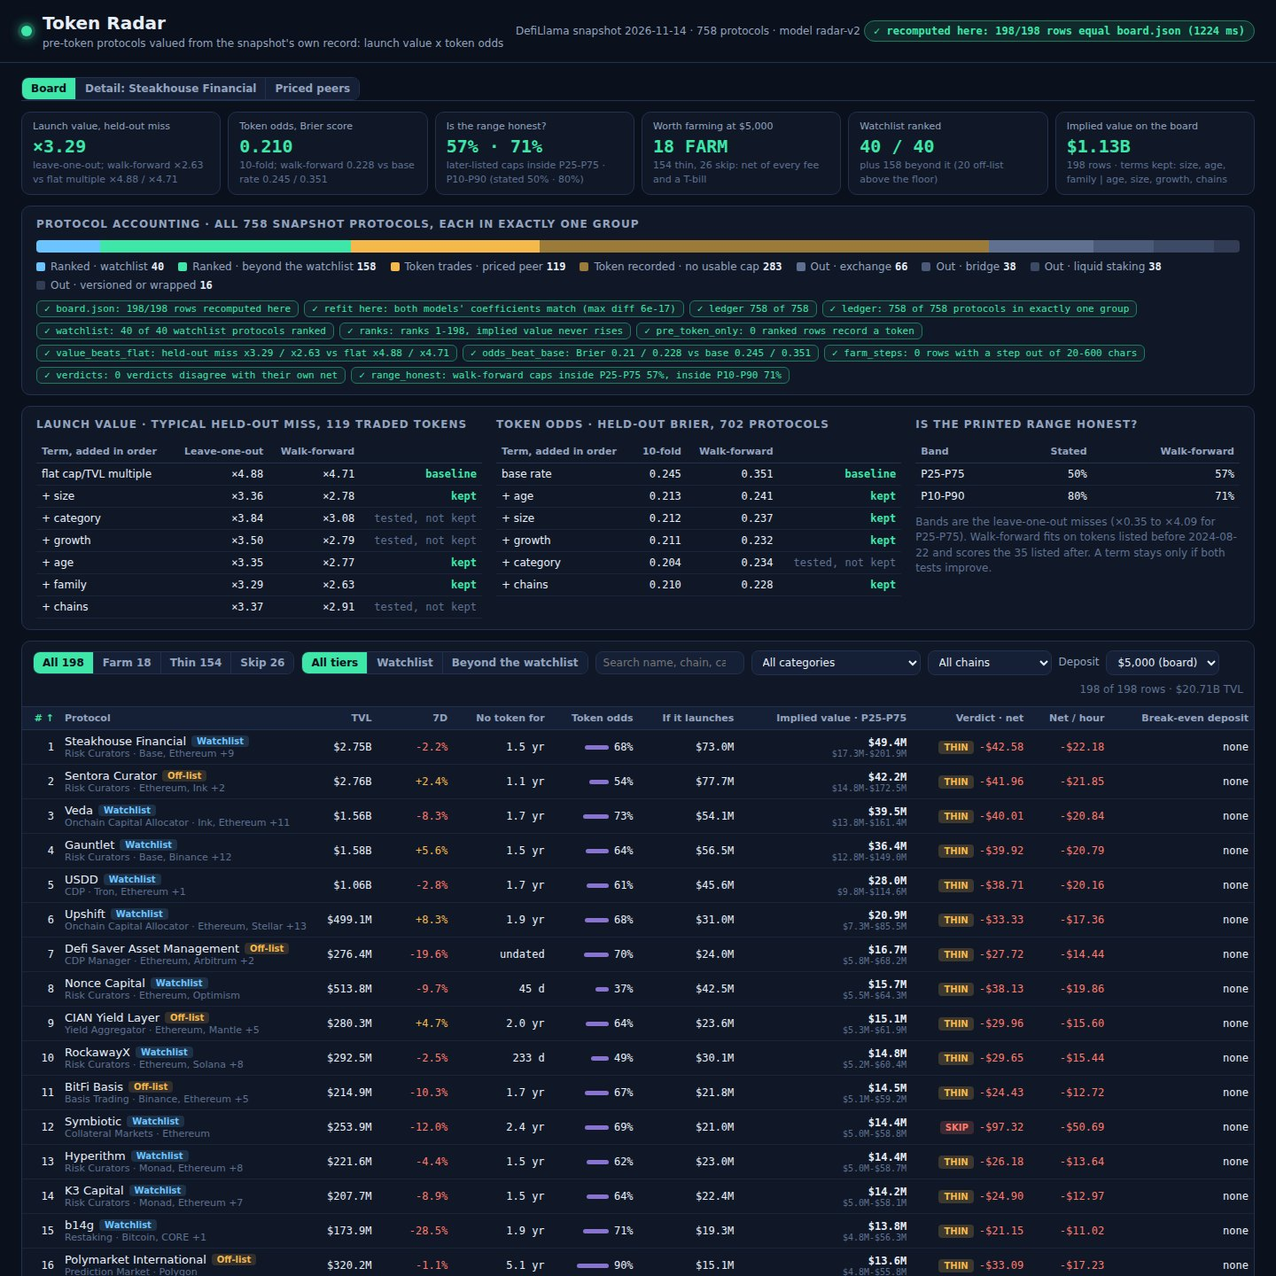
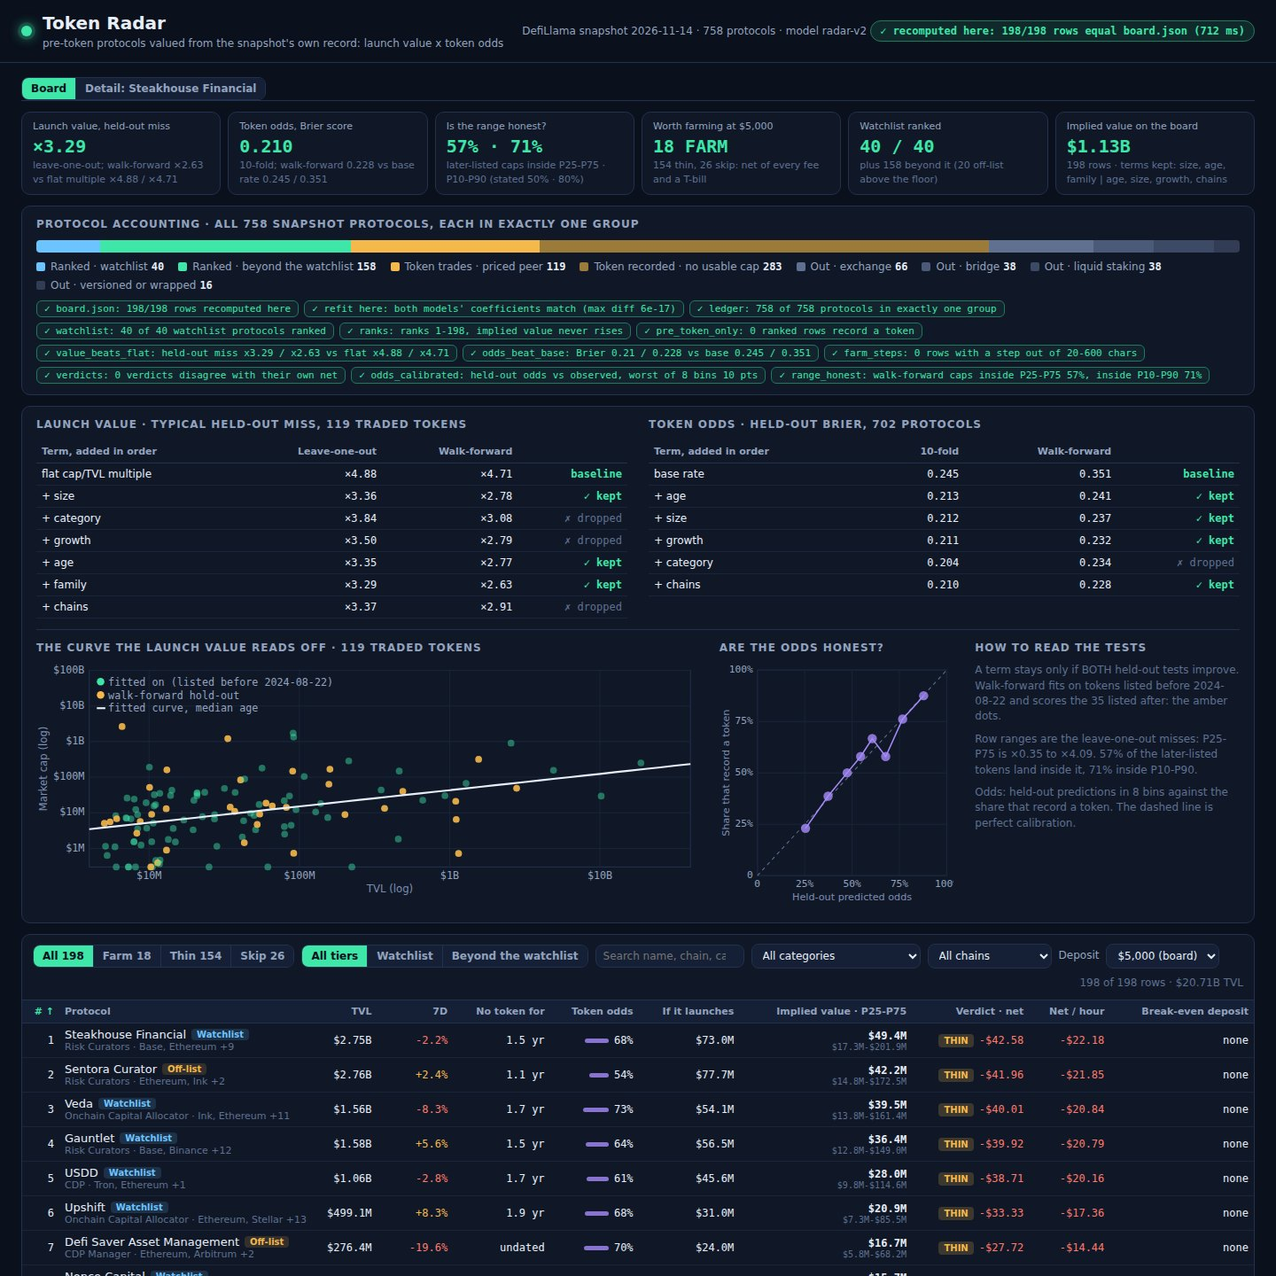
Token Radar v3: fitted-curve scatter with walk-forward hold-out, odds calibration chart and self-test, farm plan table with totals, lighter screenshots

diff --git a/dashboard/app-views.js b/dashboard/app-views.js
@@ -1,6 +1,5 @@
-// Token Radar page, part 2: the views. Board (sortable, filterable, deposit-aware verdicts), a detail
-// view per protocol (how its figure is made, nearest priced peers, farm verdict grid, the plan) and the
-// priced peers the launch value is fitted on.
+// Token Radar page, part 2: the board (sortable, filterable, deposit-aware verdicts) and a detail view
+// per protocol (how its figure is made, its place on the fitted curve, peers, verdict grid, the plan).
 (function () {
   'use strict';
   var UI = window.UI, D = UI.D, SNAP = UI.SNAP, S = UI.state, el = UI.el, add = UI.add;
@@ -10,6 +9,7 @@
   var CATS = []; TRADED.forEach(function (f) { if (CATS.indexOf(f.cat) < 0) CATS.push(f.cat); }); CATS.sort();
   var VD = RM.valueDesign(M.value_terms, CATS);
   function launchOf(f) { return Math.exp(ST.dot(M.value_w, VD.row(f)) + VD.offset(f)); }
+  UI.TRADED = TRADED; UI.launchOf = launchOf;
 
   function seg(opts, cur, on) {
     var s = el('div', 'seg');
@@ -107,7 +107,7 @@
     });
     lines.push(['= Value if a token launches', 'held-out miss ' + UI.x(M.value_steps.filter(function (s) { return s.kept; }).pop().a), UI.usd(launchOf(f))]);
     var ow = M.odds_w, logit = ow[0], oparts = ['intercept ' + ow[0].toFixed(2)];
-    M.odds_terms.forEach(function (t, k) { var v = t === 'age' ? f.y : t === 'size' ? f.z : t === 'growth' ? f.g : t === 'chains' ? f.ch : 0; logit += ow[k + 1] * v; oparts.push(t + ' ' + (ow[k + 1] >= 0 ? '+' : '') + (ow[k + 1] * v).toFixed(2)); });
+    M.odds_terms.forEach(function (t, k) { var v = t === 'age' ? f.y : t === 'size' ? f.z : t === 'growth' ? f.g : t === 'chains' ? f.ch : 0; logit += ow[k + 1] * v; oparts.push(t + ' ' + (ow[k + 1] * v >= 0 ? '+' : '') + (ow[k + 1] * v).toFixed(2)); });
     lines.push(['× Token odds', 'logit ' + oparts.join(', ') + ' = ' + logit.toFixed(2) + ' (base rate ' + Math.round(M.odds_base * 100) + '%)', Math.round(ST.sigmoid(logit) * 100) + '%']);
     lines.push(['= Implied value', 'the board ranks on this', UI.usd(r.implied_value_usd)]);
     var t = UI.table(['Step', 'From the snapshot', ''], lines.map(function (l) { var c = el('div'); add(c, l[0], el('small', '', l[1])); return [c, '', l[2]]; }), [0]);
@@ -115,7 +115,8 @@
     var check = launchOf(f) * ST.sigmoid(logit), okc = Math.max(1, Math.round(check)) === r.implied_value_usd;
     add(how, el('h2', '', 'How the figure is made'), t, el('div', okc ? 'note pos' : 'note neg', okc ? '✓ these factors, multiplied here, give board.json\'s ' + UI.usd(r.implied_value_usd) : '✗ the factors do not reproduce board.json'));
     var peers = TRADED.slice().sort(function (a, b) { return (Math.abs(a.z - f.z) + (a.cat === f.cat ? 0 : 0.7)) - (Math.abs(b.z - f.z) + (b.cat === f.cat ? 0 : 0.7)) || (a.slug < b.slug ? -1 : 1); }).slice(0, 6);
-    add(how, el('h2', '', 'Nearest priced peers · their tokens trade'), UI.table(['Token', 'Category', 'TVL', 'Market cap', 'Cap/TVL', 'Model'], peers.map(function (p) { return [p.p.name + (p.p.symbol ? ' · ' + p.p.symbol : ''), p.cat, UI.usd(p.p.tvl_usd), UI.usd(p.p.mcap_usd), UI.x(p.p.mcap_usd / p.p.tvl_usd), UI.usd(launchOf(p))]; }), [0, 1]));
+    add(how, el('h2', '', 'Where ' + r.name + ' sits on the fitted curve'), UI.scatter(r));
+    add(how, el('h2', '', 'Nearest priced peers · their tokens trade'), UI.table(['Token', 'Category', 'TVL', 'Market cap', 'Cap/TVL', 'Model'], peers.slice(0, 4).map(function (p) { return [p.p.name + (p.p.symbol ? ' · ' + p.p.symbol : ''), p.cat, UI.usd(p.p.tvl_usd), UI.usd(p.p.mcap_usd), UI.x(p.p.mcap_usd / p.p.tvl_usd), UI.usd(launchOf(p))]; }), [0, 1]));
 
     var farm = el('div', 'panel');
     var vt = el('div'); add(vt, el('span', 'v ' + e.verdict, e.verdict), ' ' + UI.usd(e.deposit) + ' for ' + M.farm.weeks + ' weeks: modelled drop ' + UI.usd(e.drop) + ' less ' + UI.usd(e.fees) + ' fees (' + e.txs + ' transactions) and ' + UI.usd(e.tbill) + ' a T-bill would pay = ', el('b', e.net >= 0 ? 'pos' : 'neg', UI.usd(e.net)), ' net, ' + UI.usd(e.per_hour) + ' an hour over ' + e.hours + ' h.');
@@ -125,31 +126,25 @@
     }), [0]);
     grid.className = 'grid';
     add(farm, el('h2', '', 'Farm verdict · net of every outflow'), vt, el('div', 'note', 'Drop = implied value × drop share × deposit ÷ (TVL + deposit). Break-even deposit: ' + (e.breakeven === null ? 'none (the drop per dollar is below the T-bill rate)' : UI.usd(e.breakeven)) + '.'), grid);
-    var ol = el('ol', 'steps');
-    r.farm_steps.forEach(function (s) { var m = /^(.*?) Cost: (.*?)\. Time: (.*?)\.$/.exec(s), li = el('li', '', m ? m[1] + ' ' : s); if (m) add(li, el('em', 'c', m[2]), el('em', 'h', m[3])); ol.appendChild(li); });
-    add(farm, el('h2', '', 'Farm plan · ' + r.farm_steps.length + ' steps at the board\'s ' + UI.usd(M.farm.deposit)), ol);
+    var e0 = r.farm, plan = UI.table(['#', 'Step', 'Cost', 'Time'], r.farm_steps.map(function (s, k) {
+      var m = /^(.*?) Cost: (.*?)\. Time: (.*?)\.$/.exec(s);
+      return [String(k + 1), m ? m[1] : s, m ? m[2] : '', m ? m[3] : ''];
+    }).concat([['', 'All ' + r.farm_steps.length + ' steps · ' + M.farm.weeks + ' weeks · capital comes back at exit', UI.usd(e0.fees) + ' fees', e0.hours + ' h']]), [1]);
+    plan.className = 'how plan'; plan.querySelector('tbody').lastChild.className = 'sum';
+    add(farm, el('h2', '', 'Farm plan · ' + r.farm_steps.length + ' steps at the board\'s ' + UI.usd(M.farm.deposit) + ' on ' + r.farm_chain), plan);
     add(g, how, farm); app.appendChild(g);
-  }
-
-  // ---- priced peers ----
-  function peers(app) {
-    var p = el('section', 'panel'), list = TRADED.slice().sort(function (a, b) { return b.p.mcap_usd - a.p.mcap_usd; });
-    add(p, el('h2', '', 'The ' + list.length + ' traded tokens the launch value is fitted on (never ranked)'), UI.table(['Protocol', 'Category', 'Listed', 'TVL', 'Market cap', 'Cap/TVL', 'Model', 'Miss'], list.map(function (f) {
-      var m = launchOf(f), miss = f.p.mcap_usd / m; return [f.p.name, f.cat, f.listed || 'undated', UI.usd(f.p.tvl_usd), UI.usd(f.p.mcap_usd), UI.x(f.p.mcap_usd / f.p.tvl_usd), UI.usd(m), UI.x(miss >= 1 ? miss : 1 / miss)];
-    }), [0, 1, 2]));
-    app.appendChild(p);
   }
 
   function nav(app) {
     var c = el('div', 'controls'); c.style.padding = '0';
-    add(c, seg([['board', 'Board'], ['detail', 'Detail: ' + ((D.board.filter(function (b) { return b.slug === S.sel; })[0] || D.board[0]).name)], ['peers', 'Priced peers']], S.view, function (v) { S.view = v; }));
+    add(c, seg([['board', 'Board'], ['detail', 'Detail: ' + ((D.board.filter(function (b) { return b.slug === S.sel; })[0] || D.board[0]).name)]], S.view, function (v) { S.view = v; }));
     app.appendChild(c);
   }
 
   function render() {
     var app = document.getElementById('app'); app.textContent = '';
     UI.header(); nav(app);
-    if (S.view === 'detail') detail(app); else if (S.view === 'peers') peers(app); else board(app);
+    if (S.view === 'detail') detail(app); else board(app);
     UI.writeHash();
   }
   render();

diff --git a/dashboard/app-charts.js b/dashboard/app-charts.js
@@ -1,0 +1,60 @@
+// Token Radar page, part 3: inline SVG charts. UI.scatter: traded tokens' cap vs TVL, the fitted curve,
+// the walk-forward hold-out, optionally one protocol on the curve. UI.calibration: held-out odds vs observed.
+(function () {
+  'use strict';
+  var UI = window.UI, D = UI.D, M = D.model, NS = ['http', '//www.w3.org/2000/svg'].join(':'); // the SVG namespace id, built so no address literal sits in source
+  function s(tag, at, text) { var n = document.createElementNS(NS, tag); Object.keys(at || {}).forEach(function (k) { n.setAttribute(k, at[k]); }); if (text !== undefined) n.textContent = text; return n; }
+  function frame(w, h) { return s('svg', { viewBox: '0 0 ' + w + ' ' + h, width: '100%', role: 'img' }); }
+  function axis(g, x0, y0, x1, y1, ticksX, ticksY, sx, sy, lx, ly) {
+    g.appendChild(s('rect', { x: x0, y: y1, width: x1 - x0, height: y0 - y1, fill: 'none', stroke: '#22314d' }));
+    ticksX.forEach(function (t) { var x = sx(t[0]); g.appendChild(s('line', { x1: x, x2: x, y1: y0, y2: y1, stroke: '#18243a' })); g.appendChild(s('text', { x: x, y: y0 + 13, 'text-anchor': 'middle', class: 'ax' }, t[1])); });
+    ticksY.forEach(function (t) { var y = sy(t[0]); g.appendChild(s('line', { x1: x0, x2: x1, y1: y, y2: y, stroke: '#18243a' })); g.appendChild(s('text', { x: x0 - 5, y: y + 3, 'text-anchor': 'end', class: 'ax' }, t[1])); });
+    g.appendChild(s('text', { x: (x0 + x1) / 2, y: y0 + 27, 'text-anchor': 'middle', class: 'al' }, lx));
+    g.appendChild(s('text', { x: 11, y: (y0 + y1) / 2, 'text-anchor': 'middle', class: 'al', transform: 'rotate(-90 11 ' + (y0 + y1) / 2 + ')' }, ly));
+  }
+  var DOLLAR = [[1e6, '$1M'], [1e7, '$10M'], [1e8, '$100M'], [1e9, '$1B'], [1e10, '$10B']];
+
+  UI.scatter = function (hl, W, H) {
+    W = W || 420; H = H || 270; var x0 = 56, x1 = W - 8, y1 = 8, y0 = H - 34;
+    var pts = UI.TRADED, lo = Math.log(4e6), hi = Math.log(4e10), mlo = Math.log(3e5), mhi = Math.log(1e11);
+    var sx = function (v) { return x0 + (Math.log(v) - lo) / (hi - lo) * (x1 - x0); }, sy = function (v) { return y0 - (Math.log(v) - mlo) / (mhi - mlo) * (y0 - y1); };
+    var svg = frame(W, H), g = s('g'); svg.appendChild(g);
+    axis(g, x0, y0, x1, y1, DOLLAR.slice(0, 5).filter(function (t) { return t[0] >= 4e6; }), DOLLAR.concat([[1e11, '$100B']]), sx, sy, 'TVL (log)', 'Market cap (log)');
+    // the fitted curve at the median age, no family flag: every other term held at its middle
+    var ages = pts.map(function (f) { return f.y; }).sort(function (a, b) { return a - b; }), ym = ages[ages.length >> 1], path = '';
+    for (var i = 0; i <= 40; i++) {
+      var tv = Math.exp(lo + (hi - lo) * i / 40), f = { z: Math.log(tv / 1e8), y: ym, fam: 0, g: 0, ch: 0, cat: '' };
+      path += (i ? 'L' : 'M') + sx(tv).toFixed(1) + ' ' + sy(Math.max(Math.exp(mlo), UI.launchOf(f))).toFixed(1);
+    }
+    pts.forEach(function (f) {
+      var tv = Math.min(Math.max(f.p.tvl_usd, 4e6), 4e10), mc = Math.min(Math.max(f.p.mcap_usd, 3e5), 1e11), held = f.listed !== null && f.listed >= M.walk_cut;
+      g.appendChild(s('circle', { cx: sx(tv).toFixed(1), cy: sy(mc).toFixed(1), r: 3.6, fill: held ? '#f5b84b' : '#3ee6a8', 'fill-opacity': held ? 0.9 : 0.45 }));
+    });
+    g.appendChild(s('path', { d: path, fill: 'none', stroke: '#e8eef8', 'stroke-width': 2 }));
+    if (hl) {
+      var hx = sx(Math.min(Math.max(hl.tvl_usd, 4e6), 4e10)), hy = sy(hl.launch_value_usd);
+      g.appendChild(s('circle', { cx: hx, cy: hy, r: 7, fill: 'none', stroke: '#a78bfa', 'stroke-width': 2.5 }));
+      g.appendChild(s('text', { x: hx + 10, y: hy - 8, class: 'hl' }, hl.name + ' ' + UI.usd(hl.launch_value_usd)));
+    }
+    var key = s('g', { transform: 'translate(' + (x0 + 8) + ' ' + (y1 + 12) + ')' });
+    [['#3ee6a8', 'fitted on (listed before ' + M.walk_cut + ')'], ['#f5b84b', 'walk-forward hold-out']].forEach(function (k, j) { key.appendChild(s('circle', { cx: 4, cy: j * 14, r: 4, fill: k[0] })); key.appendChild(s('text', { x: 12, y: j * 14 + 4, class: 'ax' }, k[1])); });
+    key.appendChild(s('line', { x1: 0, x2: 9, y1: 28, y2: 28, stroke: '#e8eef8', 'stroke-width': 2 })); key.appendChild(s('text', { x: 12, y: 32, class: 'ax' }, 'fitted curve, median age'));
+    g.appendChild(key);
+    return svg;
+  };
+
+  UI.calibration = function () {
+    var W = 260, H = 270, x0 = 42, x1 = W - 8, y1 = 8, y0 = H - 34, sx = function (v) { return x0 + v * (x1 - x0); }, sy = function (v) { return y0 - v * (y0 - y1); };
+    var svg = frame(W, H), g = s('g'); svg.appendChild(g);
+    var t = [[0, '0'], [0.25, '25%'], [0.5, '50%'], [0.75, '75%'], [1, '100%']];
+    axis(g, x0, y0, x1, y1, t, t, sx, sy, 'Held-out predicted odds', 'Share that record a token');
+    g.appendChild(s('line', { x1: sx(0), y1: sy(0), x2: sx(1), y2: sy(1), stroke: '#5f7090', 'stroke-dasharray': '4 4' }));
+    var path = '';
+    M.calibration.forEach(function (b, i) {
+      path += (i ? 'L' : 'M') + sx(b.p).toFixed(1) + ' ' + sy(b.y).toFixed(1);
+      g.appendChild(s('circle', { cx: sx(b.p).toFixed(1), cy: sy(b.y).toFixed(1), r: 2 + Math.sqrt(b.n) / 3, fill: '#a78bfa', 'fill-opacity': 0.8 }));
+    });
+    g.appendChild(s('path', { d: path, fill: 'none', stroke: '#a78bfa', 'stroke-width': 1.5 }));
+    return svg;
+  };
+})();

diff --git a/dashboard/app-core.js b/dashboard/app-core.js
@@ -1,6 +1,5 @@
-// Token Radar page, part 1: state, formatting, and the proof. On load the page runs the same model
-// code main.ts ran (RadarBoard.build) on the same snapshot and compares every row with the board main.ts
-// wrote: rank, implied value, launch value, odds and farm net. The header badge says how many match.
+// Token Radar page, part 1: state, formatting, the proof, KPIs, ledger and evidence. On load the page
+// reruns RadarBoard.build (the code main.ts ran) on the same snapshot and compares every row with board.json.
 (function () {
   'use strict';
   var D = window.RADAR, SNAP = window.RADAR_SNAPSHOT;
@@ -109,7 +108,7 @@
     });
     UI.add(p, bar, lg);
     var ch = UI.el('div', 'checks');
-    var browser = [[P.same === P.n, 'board.json: ' + P.same + '/' + P.n + ' rows recomputed here'], [P.coefSame, 'refit here: both models\' coefficients match (max diff ' + P.maxDiff.toExponential(0) + ')'], [P.ledgerTotal === SNAP.protocols.length, 'ledger ' + P.ledgerTotal + ' of ' + SNAP.protocols.length]];
+    var browser = [[P.same === P.n, 'board.json: ' + P.same + '/' + P.n + ' rows recomputed here'], [P.coefSame, 'refit here: both models\' coefficients match (max diff ' + P.maxDiff.toExponential(0) + ')']];
     browser.concat(D.tests.map(function (t) { return [t.ok, t.id + ': ' + t.detail]; })).forEach(function (c) { ch.appendChild(UI.el('span', 'chk' + (c[0] ? '' : ' bad'), (c[0] ? '✓ ' : '✗ ') + c[1])); });
     p.appendChild(ch);
     return p;
@@ -119,15 +118,19 @@
     var M = D.model, p = UI.el('section', 'panel'), g = UI.el('div', 'evidence');
     function steps(list, fa, fb, a, b) {
       return UI.table(['Term, added in order', a, b, ''], list.map(function (s, i) {
-        return [(i ? '+ ' : '') + s.term, fa(s.a), fb(s.b), UI.el('span', s.kept ? 'kept' : 'drop', i === 0 ? 'baseline' : s.kept ? 'kept' : 'tested, not kept')];
+        return [(i ? '+ ' : '') + s.term, fa(s.a), fb(s.b), UI.el('span', s.kept ? 'kept' : 'drop', i === 0 ? 'baseline' : s.kept ? '✓ kept' : '✗ dropped')];
       }), [0]);
     }
     var v = UI.el('div'); UI.add(v, UI.el('h2', '', 'Launch value · typical held-out miss, ' + M.value_n + ' traded tokens'), steps(M.value_steps, UI.x, UI.x, 'Leave-one-out', 'Walk-forward'));
     var o = UI.el('div'); UI.add(o, UI.el('h2', '', 'Token odds · held-out Brier, ' + M.odds_n + ' protocols'), steps(M.odds_steps, function (n) { return n.toFixed(3); }, function (n) { return n.toFixed(3); }, '10-fold', 'Walk-forward'));
-    var q = M.quantiles, r = UI.el('div');
-    UI.add(r, UI.el('h2', '', 'Is the printed range honest?'), UI.table(['Band', 'Stated', 'Walk-forward'], [['P25-P75', '50%', Math.round(M.coverage.iqr * 100) + '%'], ['P10-P90', '80%', Math.round(M.coverage.p80 * 100) + '%']], [0]),
-      UI.el('div', 'note', 'Bands are the leave-one-out misses (' + UI.x(Math.exp(q.p25)) + ' to ' + UI.x(Math.exp(q.p75)) + ' for P25-P75). Walk-forward fits on tokens listed before ' + M.walk_cut + ' and scores the ' + M.value_test_n + ' listed after. A term stays only if both tests improve.'));
-    UI.add(g, v, o, r); p.appendChild(g);
+    var q = M.quantiles, row = UI.el('div', 'charts');
+    var c1 = UI.el('div'); UI.add(c1, UI.el('h2', '', 'The curve the launch value reads off · ' + M.value_n + ' traded tokens'), UI.scatter(null, 700, 250));
+    var c2 = UI.el('div'); UI.add(c2, UI.el('h2', '', 'Are the odds honest?'), UI.calibration());
+    var c3 = UI.el('div'); UI.add(c3, UI.el('h2', '', 'How to read the tests'),
+      UI.el('p', 'note', 'A term stays only if BOTH held-out tests improve. Walk-forward fits on tokens listed before ' + M.walk_cut + ' and scores the ' + M.value_test_n + ' listed after: the amber dots.'),
+      UI.el('p', 'note', 'Row ranges are the leave-one-out misses: P25-P75 is ' + UI.x(Math.exp(q.p25)) + ' to ' + UI.x(Math.exp(q.p75)) + '. ' + Math.round(M.coverage.iqr * 100) + '% of the later-listed tokens land inside it, ' + Math.round(M.coverage.p80 * 100) + '% inside P10-P90.'),
+      UI.el('p', 'note', 'Odds: held-out predictions in 8 bins against the share that record a token. The dashed line is perfect calibration.'));
+    UI.add(g, v, o); UI.add(row, c1, c2, c3); UI.add(p, g, row);
     return p;
   };
 })();

diff --git a/dashboard/app.css b/dashboard/app.css
@@ -1,6 +1,4 @@
-/* Token Radar v2. Night-shift radar palette: ink navy ground, phosphor green for value and passes,
-   amber for money at stake, violet for odds, coral for losses and fails. Type scale 11/12/13/15/20/28,
-   8px grid. */
+/* Token Radar: ink navy ground; green = value and passes, amber = money, violet = odds, coral = losses. */
 :root {
   --bg: #0a101c; --panel: #101828; --panel2: #152036; --line: #22314d; --ink: #e8eef8; --dim: #93a3bf; --faint: #5f7090;
   --green: #3ee6a8; --green2: #1e7a5c; --amber: #f5b84b; --violet: #a78bfa; --coral: #ff7a6b; --sky: #6cc4ff;
@@ -31,7 +29,14 @@ h2 { font-size: 12px; margin: 0 0 8px; text-transform: uppercase; letter-spacing
 .checks { display: flex; flex-wrap: wrap; gap: 6px; margin-top: 8px; }
 .chk { font: 11px var(--mono); padding: 2px 8px; border-radius: 6px; border: 1px solid var(--green2); color: var(--green); background: rgba(62,230,168,.06); }
 .chk.bad { border-color: var(--coral); color: var(--coral); background: rgba(255,122,107,.08); }
-.evidence { display: grid; grid-template-columns: 1.1fr 1fr .8fr; gap: 16px; }
+.evidence { display: grid; grid-template-columns: minmax(0,1fr) minmax(0,1fr); gap: 24px; align-items: start; }
+.charts { display: grid; grid-template-columns: minmax(0,1.75fr) minmax(0,.62fr) minmax(0,.7fr); gap: 24px; margin-top: 12px; border-top: 1px solid var(--line); padding-top: 12px; }
+.charts p.note { margin: 0 0 8px; }
+svg .ax { fill: #93a3bf; font: 11px var(--mono); }
+svg .al { fill: #7d8db0; font: 11px var(--sans); }
+svg .hl { fill: #c4b5fd; font: 700 13px var(--sans); paint-order: stroke; stroke: #0a101c; stroke-width: 4px; }
+.plan td:nth-child(2) { font: 12px/1.4 var(--sans); }
+.plan td:nth-child(3), .plan td:nth-child(4) { color: var(--amber); font-size: 11px; width: 120px; }
 table { width: 100%; border-collapse: collapse; }
 th { text-align: right; color: var(--dim); font: 600 11px var(--sans); padding: 6px; border-bottom: 1px solid var(--line); white-space: nowrap; }
 td { text-align: right; padding: 5px 6px; border-bottom: 1px solid rgba(34,49,77,.55); font: 12px var(--mono); white-space: nowrap; }
@@ -76,10 +81,5 @@ td.name small { display: block; color: var(--faint); font-size: 11px; }
 .how td.l { font-family: var(--sans); }
 .how td.l small { display: block; color: var(--faint); }
 .how tr.sum td { color: var(--amber); font-weight: 700; border-top: 1px solid var(--line); }
-.grid td.sel { outline: 2px solid var(--amber); }
-ol.steps { margin: 0; padding-left: 22px; }
-ol.steps li { margin-bottom: 8px; }
-ol.steps em { font-style: normal; font: 11px var(--mono); padding: 0 6px; border-radius: 4px; margin-right: 6px; }
-em.c { color: var(--amber); background: rgba(245,184,75,.1); } em.h { color: var(--violet); background: rgba(167,139,250,.1); }
 .back { color: var(--sky); cursor: pointer; font-size: 12px; }
 .foot { color: var(--faint); font-size: 11px; padding: 0 24px 24px; }

diff --git a/dashboard/core-farm.js b/dashboard/core-farm.js
@@ -1,6 +1,5 @@
-// RadarBoard: turns the fitted models into the ranked board, the farm economics and the self-test.
-// main.ts runs build() to write board.json; the page runs the same build() on the same snapshot and
-// compares every row with the board it was handed. Nothing here reads a clock or a random number.
+// RadarBoard: fitted models -> ranked board, farm economics, self-test. main.ts and the page both run
+// build() on the same snapshot; no clock, no randomness.
 (function (root) {
   'use strict';
   var node = typeof module !== 'undefined' && module.exports;
@@ -95,7 +94,14 @@
         farm_chain: r.chain, farm: e, farm_steps: plan(r, e)
       };
     });
+    // Calibration of the held-out odds: 8 bins by predicted probability, each its mean and the observed rate.
+    var pk = fit.osel.final.pk, yk = fit.osel.final.yk, ix = pk.map(function (_, i) { return i; }).sort(function (a, b) { return pk[a] - pk[b] || a - b; }), calib = [];
+    for (var bi = 0; bi < 8; bi++) {
+      var part = ix.slice(Math.floor(bi * ix.length / 8), Math.floor((bi + 1) * ix.length / 8));
+      calib.push({ n: part.length, p: S.round(part.reduce(function (s, i) { return s + pk[i]; }, 0) / part.length, 4), y: S.round(part.reduce(function (s, i) { return s + yk[i]; }, 0) / part.length, 4) });
+    }
     var model = {
+      calibration: calib,
       value_terms: fit.vsel.kept, value_steps: fit.vsel.steps, value_w: fit.value.w, value_n: fit.V.length, value_test_n: fit.vsel.final.nTest, walk_cut: fit.vsel.final.cutDate,
       odds_terms: fit.osel.kept, odds_steps: fit.osel.steps, odds_w: fit.odds.w, odds_n: fit.O.length, odds_base: fit.odds.rates.base,
       quantiles: q, coverage: { iqr: inside(q.p25, q.p75), p80: inside(q.p10, q.p90) }, farm: FARM
@@ -123,6 +129,8 @@
     add('farm_steps', badSteps.length === 0, badSteps.length + ' rows with a step out of 20-600 chars');
     var badV = board.filter(function (r) { var e = r.farm; return (e.verdict === 'SKIP') !== (e.drop <= e.fees) || (e.verdict === 'FARM') !== (e.drop > e.fees && e.net > 0 && e.net / e.hours >= FARM.hourly_bar); });
     add('verdicts', badV.length === 0, badV.length + ' verdicts disagree with their own net');
+    var worst = model.calibration.reduce(function (m, b) { return Math.max(m, Math.abs(b.p - b.y)); }, 0);
+    add('odds_calibrated', worst <= 0.15, 'held-out odds vs observed, worst of 8 bins ' + Math.round(worst * 100) + ' pts');
     add('range_honest', model.coverage.iqr >= 0.3 && model.coverage.p80 >= 0.6, 'walk-forward caps inside P25-P75 ' + Math.round(model.coverage.iqr * 100) + '%, inside P10-P90 ' + Math.round(model.coverage.p80 * 100) + '%');
     return t;
   }

diff --git a/dashboard/core-model.js b/dashboard/core-model.js
@@ -127,7 +127,7 @@
       rows.forEach(function (r) { if (S.foldOf(r.slug, 10) === k) { pk.push(f.predict(r)); yk.push(r.tok); } });
     }
     var ws = walkSplit(rows), g = fitOdds(ws.train, terms);
-    return { kfold: S.brier(pk, yk), wf: S.brier(ws.test.map(g.predict), ws.test.map(function (r) { return r.tok; })), nTest: ws.test.length };
+    return { kfold: S.brier(pk, yk), wf: S.brier(ws.test.map(g.predict), ws.test.map(function (r) { return r.tok; })), nTest: ws.test.length, pk: pk, yk: yk };
   }
 
   // Forward selection in a fixed order: add a term only if it lowers BOTH held-out errors.

diff --git a/dashboard/core-stats.js b/dashboard/core-stats.js
@@ -1,6 +1,5 @@
-// RadarStats: the math the radar's model runs on, shared by main.ts (Node) and the page (browser).
-// Ridge least squares, ridge logistic regression by Newton's method, and the held-out scores. No
-// randomness and fixed iteration counts, so Node and the browser compute the same figures.
+// RadarStats: ridge least squares, ridge logistic (Newton), held-out scores. Shared by Node and the
+// browser; fixed iterations, no randomness.
 (function (root) {
   'use strict';
 

diff --git a/dashboard/index.html b/dashboard/index.html
@@ -19,6 +19,7 @@
 <script src="core-model.js"></script>
 <script src="core-farm.js"></script>
 <script src="app-core.js"></script>
+<script src="app-charts.js"></script>
 <script src="app-views.js"></script>
 </body>
 </html>
